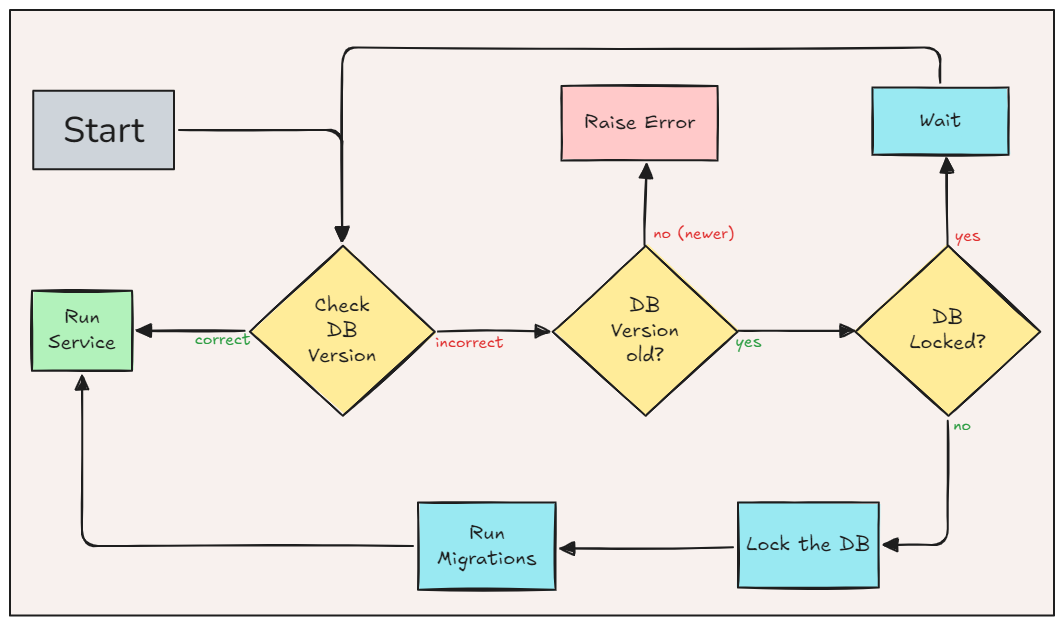
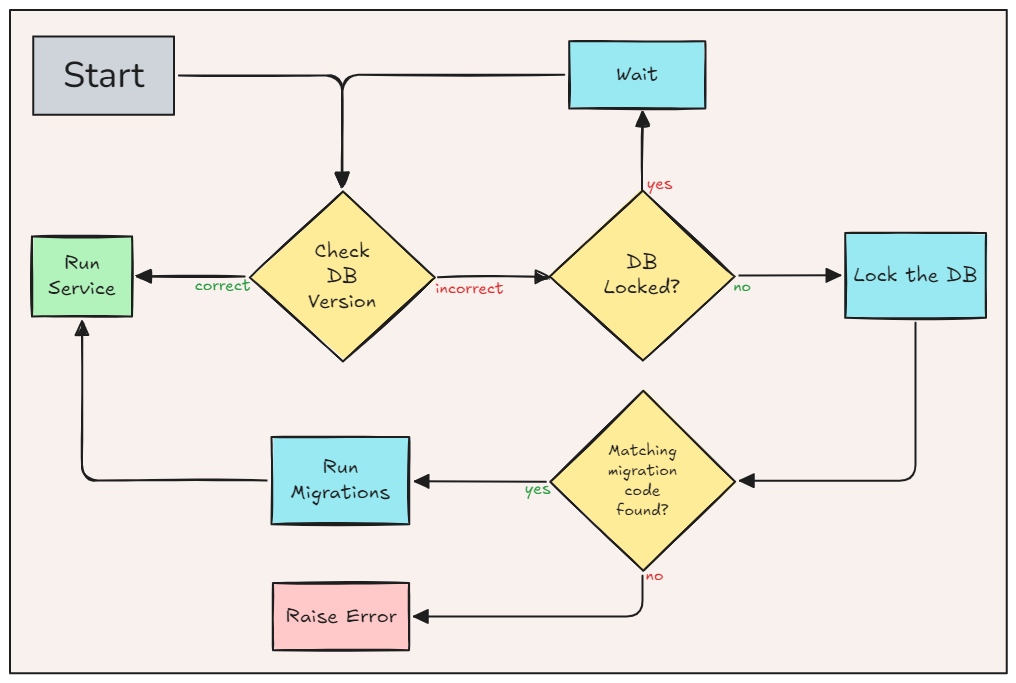
Allow backwards migrations

diff --git a/62-california-condor/technical_specification.md b/62-california-condor/technical_specification.md
@@ -62,10 +62,10 @@ occurs and the data happens to be older, the migration process will begin at the
 appropriate step in the migration chain and continue until the data is totally migrated.
 Migration code should be preserved at least until there is no possibility of 
 encountering the corresponding database version again. In the case that the database
-version is *newer* than what it be, something has gone wrong. Possibly, this could mean
-that the deployed service is outdated (maybe deployment configuration was messed up).
-We should never move the database version backward. Reverse migrations are
-discussed further down in this document, but the database version number should increase monotonically.
+version is *newer* than what it be, something has gone wrong *or* we have deployed
+an older version of a service. The backwards case is treated just like the forward case:
+the migration code will execute the backwards migration path if it exists and raise an
+error if it doesn't.
 
 
 ### Services with Multiple Instances
@@ -116,7 +116,10 @@ There might be some situation where we need to apply the reverse of a migration.
 If DB version 5 is applied, but we later find that we should have stayed with version 4,
 then we need to move to version 6. Version 6 is not treated as some special 'undo'
 version increment; the migration logic merely happens to move the data to the same
-structure contained in version 4.
+structure contained in version 4. However, in the case that we really just need to
+deploy an older service version, the migration code needs to be able to perform
+migrations from X to X - 1. The responsibility falls to the developer to ensure their
+forward migration code has a backward counterpart, which should also be tested.
 
 ### Migration Code Organization
 
